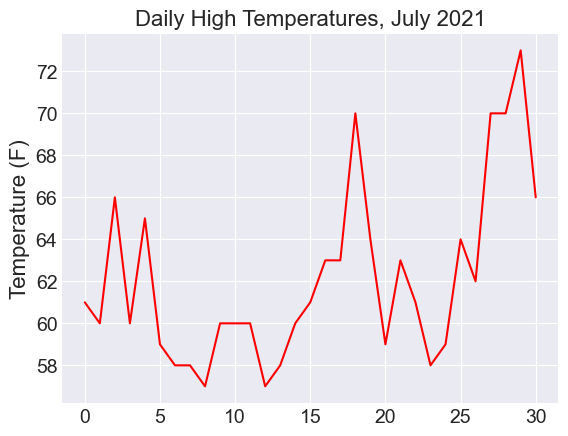
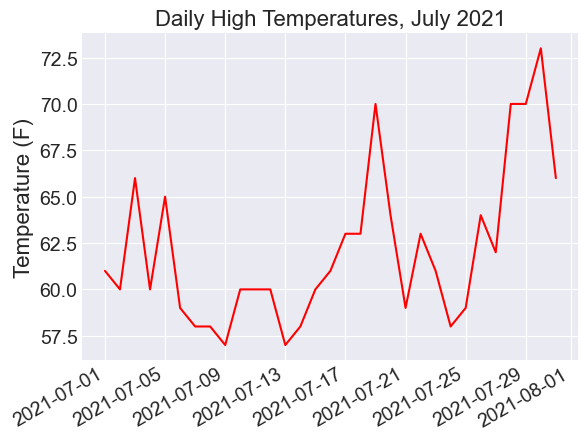
Added dates to high temps plot

diff --git a/sitka_highs.py b/sitka_highs.py
@@ -1,4 +1,5 @@
 import csv
+from datetime import datetime
 from pathlib import Path
 
 import matplotlib.pyplot as plt
@@ -18,6 +19,13 @@ def read_csv():
     return reader
 
 
+def extract_dates():
+    """Extracts the date of each high temperature in the list returned by read_csv"""
+    reader = read_csv()
+    dates = [datetime.strptime(row[2], "%Y-%m-%d") for row in reader]
+    return dates
+
+
 def high_temperatures():
     """Extracts the high temperatures from the list returned by read_csv"""
     reader = read_csv()
@@ -28,13 +36,15 @@ def high_temperatures():
 def plot_high_temperatures():
     """Plot the high temperatures"""
     highs = high_temperatures()
+    dates = extract_dates()
     plt.style.use("seaborn-v0_8-darkgrid")
     fig, ax = plt.subplots()
-    ax.plot(highs, color="red")
+    ax.plot(dates, highs, color="red")
 
     # plot formatting
     ax.set_title("Daily High Temperatures, July 2021", fontsize=16)
     ax.set_xlabel("", fontsize=16)
+    fig.autofmt_xdate()
     ax.set_ylabel("Temperature (F)", fontsize=16)
     ax.tick_params(labelsize=14)
 
